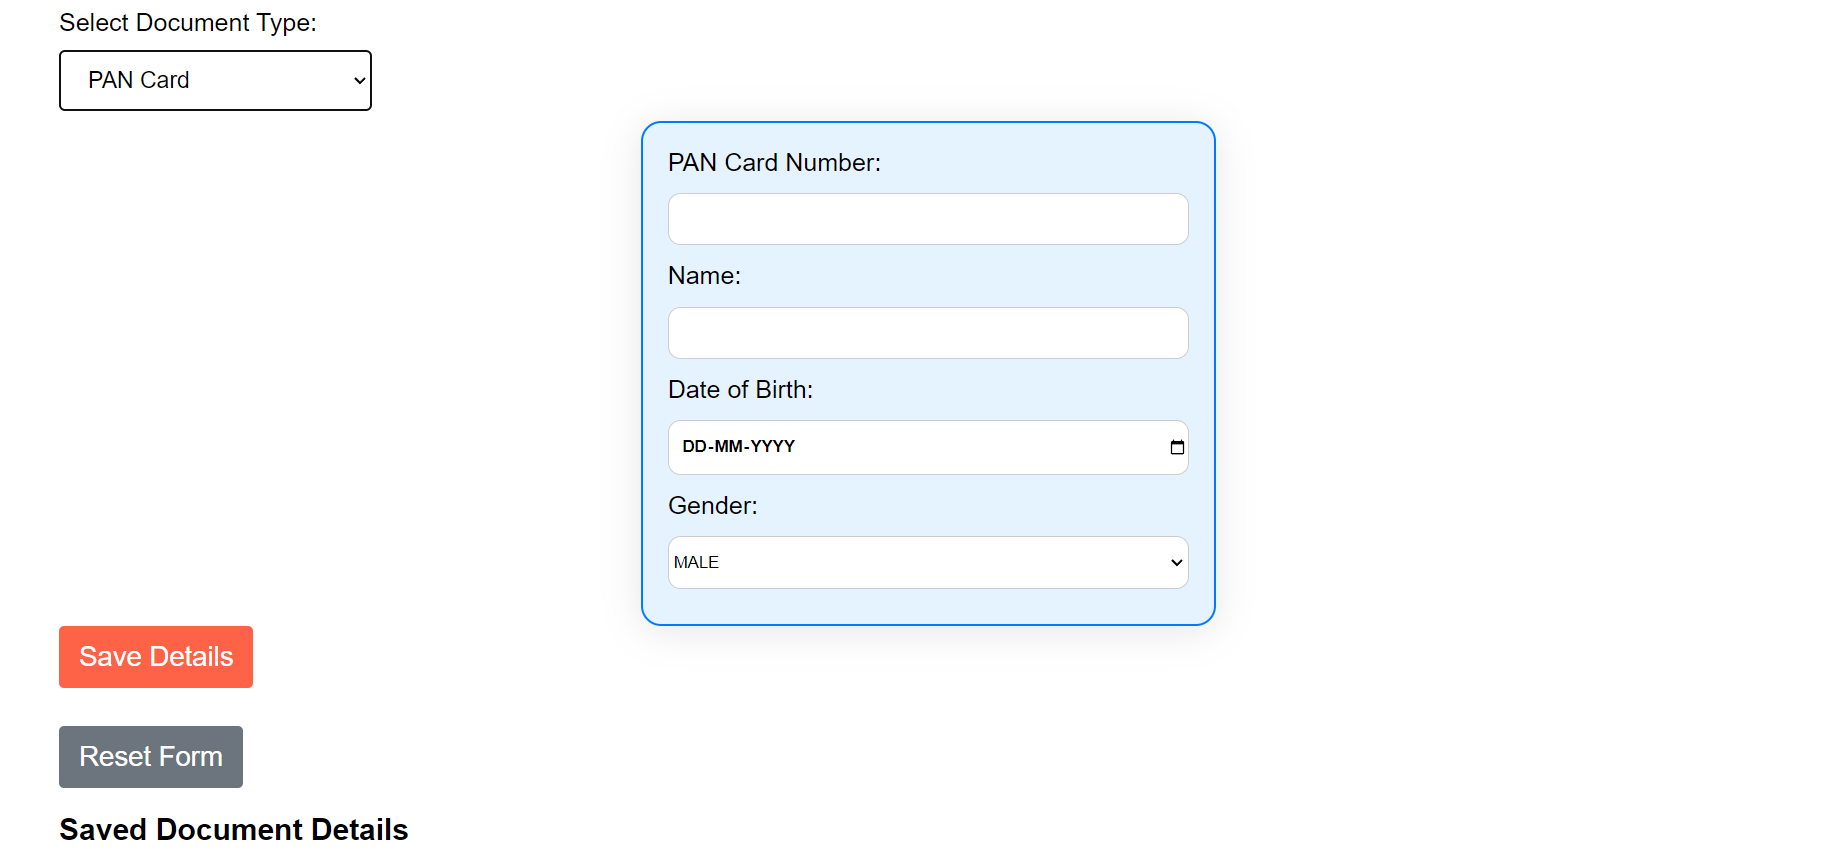
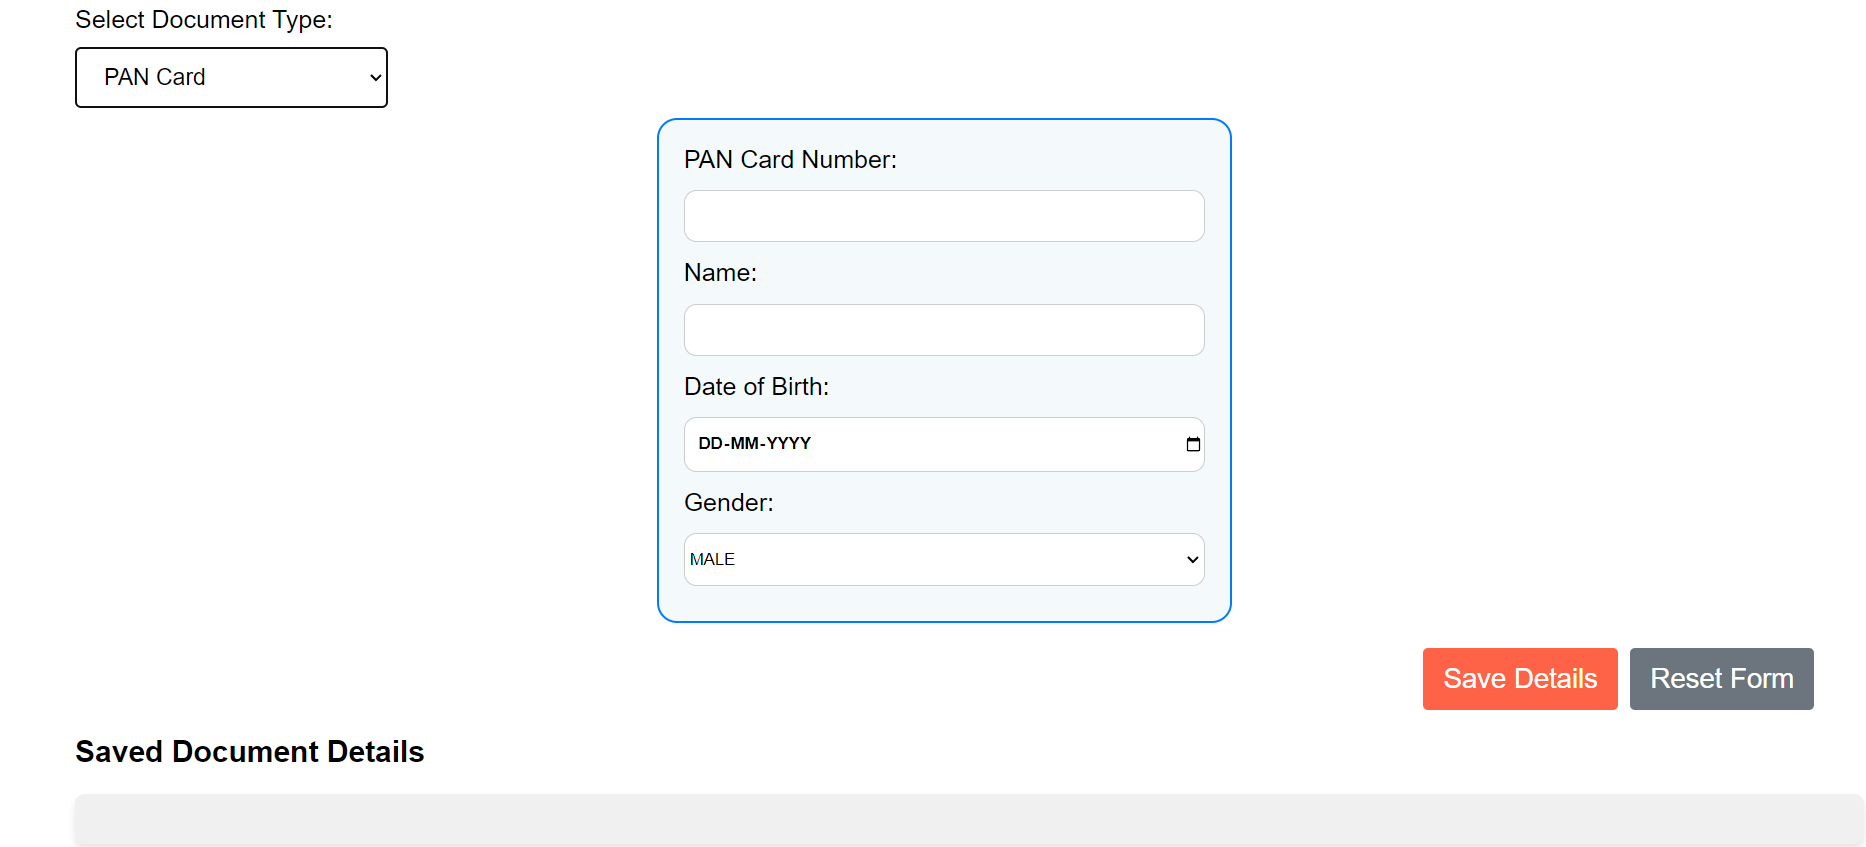
update my js code ,update readme screenshot,update index.js,style.css,update assets

diff --git a/index.html b/index.html
@@ -28,14 +28,19 @@
                     
                 </select>
                 <div id="documentFields" style="display: none"></div>
-            <button type="submit" id="saveButton"  class="save-btn">Save Details</button>
+                
+                <div class="button-container">
+                    <button type="submit" id="saveButton" class="save-btn">Save Details</button>
+                    <button type="button" id="resetButton" class="reset-btn">Reset Form</button>
+                </div>
+        
 
 
                 
             </form>
         </section>
         <section>
-            <button type="button" id="resetButton" class="reset-btn">Reset Form</button>
+           
             <h2>Saved Document Details</h2>
             <div class="container">
             
@@ -50,7 +55,7 @@
         <p>&copy; 2024 Offline Document Storage</p>
     </footer>
     
-    <script src="script\app.js">
+    <script src="scripts\app.js">
     </script>
     
     

diff --git a/scripts/app.js b/scripts/app.js
@@ -207,17 +207,17 @@ const generateImage =(documentType, documentNumber, holdingPersonName,DOB) => {
 
     
 if (mappedDocumentType === "DrivingLicense") {
-    backgroundImage.src = '../styles/images/gery.jpg';
+    backgroundImage.src = 'assets/images/gery.jpg';
     backgroundColor = '#F4A460';
     canvasWidth = 500;
     canvasHeight = 300;
 } else if (mappedDocumentType === "PAN") {
-    backgroundImage.src = '../styles/images/image.jpg';
+    backgroundImage.src = 'assets/images/image.jpg';
     backgroundColor = 'FFFAFA';
     canvasWidth = 500;
     canvasHeight = 300;
 } else {
-    backgroundImage.src = '../styles/images/tricolour.jpg';
+    backgroundImage.src = 'assets/images/tricolour.jpg';
 }
 
     

diff --git a/styles/style.css b/styles/style.css
@@ -169,6 +169,7 @@ select {
     cursor: pointer;
     transition: background-color 0.3s;
     font-size: 22px;
+    margin-top: 10px; 
 }
 
 .save-btn:hover {
@@ -216,4 +217,11 @@ select {
   .reset-btn:hover {
     background-color: #5a6268; 
   }
+  
+.button-container {
+    display: flex;
+    justify-content: flex-end;
+    gap: 10px;
+    margin-top: 10px;
+}
   

diff --git a/docs/README.md b/docs/README.md
@@ -2,15 +2,25 @@
  An offline application to store and manage personal documents such as Aadhaar Card, Driving License, and PAN Card.
 
 ## Table of Contents
-
+- [Installation]
 - [Introduction]
 - [Features]
 - [Usage]
 - [ProjectStructure]
 - [Screenshot]
-- [Contributing]
 - [Conclusion]
-- [Intstallation]
+
+
+
+## Installation
+
+To set up the project, clone the repository and open the `index.html` file in your browser.
+
+```bash
+git clone "https://github.com/recursivezero/assigment.git"
+cd " offline-document-storage"
+Run directly in your vs code using golive Extensions.
+```
 
 
 
@@ -34,18 +44,20 @@
 5. View, edit, or delete saved document details.
 
 ## Project Structure
-offline-document-storage/
-├── styles/
-│   ├── style.css
-│   └── images/
-│       ├── tricolour.jpg
-│       ├── gery.jpg
-│       └── image.jpg
-├── script/
-│   └── app.js
-├── index.html
-├── README.md
-└── .gitignore
+```sh
+
+D:.
+├───.vscode
+├───assets
+│   └───images
+├───docs
+├───script
+└───styles
+    └───images
+```
+
+
+
 
 ## Screenshots
 
@@ -79,13 +91,7 @@ Here are some screenshots of the application:
 
 -> This section consists of the canva image that are generated from user data after clicking view button 
 
-## For Contributing
 
-st-1 Fork the repository.
-st-2 Create a new branch (git checkout -b feature/YourFeature).
-st-3 Commit your changes (git commit -m 'Add YourFeature').
-st-4 Push to the branch (git push origin feature/YourFeature).
-st-5 Open a Pull Request.
 
 ## Conclusion
 
@@ -94,12 +100,4 @@ The Offline Document Storage application is a convenient solution for managing p
 
 
 
-## Installation
-
-To set up the project, clone the repository and open the `index.html` file in your browser.
-
-```bash
-git clone "https://github.com/recursivezero/assigment.git"
-cd " offline-document-storage"
-Run directly in your vs code using golive Extensions.
 
